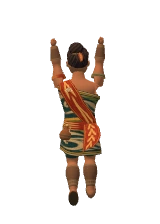
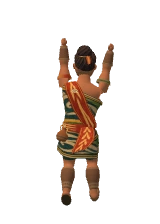
Refine runner and ridgeback gaits and update animation sprites

Changed region(s): [[0.3125, 0.1562, 0.7188, 0.9375]]

diff --git a/runner.js b/runner.js
@@ -1,7 +1,7 @@
 import * as T from './vendor/three.module.min.js';
 import {paintedMaterial} from './character-material.js';
 import {createNavigatorHead} from './navigator.js';
-import {ease,impactPose} from './motion.js';
+import {ease,impactPose,footPath,runStride,walkStride,stridePhase} from './motion.js';
 
 // The character faces -Z. Profiles describe elliptical cross-sections in metres.
 export function createRunner(scene) {
@@ -302,13 +302,14 @@ export function createRunner(scene) {
     spine.add(shoulders);spine.updateWorldMatrix(true,true);
     shoulders.bind(new T.Skeleton([spine,...limbs.map(l=>l.arm.anchor)]));
     shoulders.castShadow=true;shoulders.frustumCulled=false;
+    const inversePelvis=new T.Quaternion(),ankleTarget=new T.Vector3();
     let lastTime=0,airborne=false,impact=0;
     const mix=T.MathUtils.lerp;
     return function pose(state,distance,p,t,menu,stumble=0,bite=null,hold=0,intro=0){
         const dt=Math.min(.08,Math.max(0,t-lastTime));lastTime=t;
         const opening=state==='intro';
         const glance=opening ? Math.sin(Math.PI*T.MathUtils.smoothstep(intro,3.4,6.1)) : 0;
-        const walking=opening && intro<2.8;
+        const walking=opening && intro<4.62;
         const falling=p.drop, pivot=p.pivot;
         const collision=p.impact && impactPose(p.impact.kind,p.impact.phase);
         const drop=falling?ease(falling.phase/.52):0;
@@ -316,8 +317,11 @@ export function createRunner(scene) {
         if(running && !p.y && airborne)impact=1;
         if(!running)impact=0;
         airborne=p.y>0;impact*=Math.exp(-11*dt);
-        const cycle=running?distance/(walking?1.65:4.25):0,angle=cycle*2*Math.PI;
-        const c=p.crouch, travel=running?(1-c)*(1-air)*(1-drop)*(1-(collision?.weight||0))*(walking?.72:1):0;
+        const stride=walking?walkStride:runStride, stance=walking?.54:.177;
+        const cycle=running?stridePhase(distance,stride):0,angle=cycle*2*Math.PI;
+        const support=Math.cos(angle-stance*Math.PI);
+        const drive=opening && !walking?ease((intro-5.17)/1.15):1;
+        const c=p.crouch, travel=running?drive*(1-c)*(1-air)*(1-drop)*(1-(collision?.weight||0))*(1-Math.max(p.fallen,p.kneeling)):0;
         const {fallen, kneeling} = p;
         const lean=T.MathUtils.clamp((p.laneVelocity||0)*.12,-1.55,1.55), breath=Math.sin(t*2.2)*.008;
         root.position.set(p.x,p.y,stumble*.48);root.rotation.z=-lean*.105-stumble*.61;
@@ -326,21 +330,25 @@ export function createRunner(scene) {
             root.rotation.y+=pivot.yaw;
             root.rotation.z-=pivot.lean*.26;
         }
-        const hipY=mix(.845-.032*Math.cos(angle*2-1.05)*travel-.086*impact,.335,c);
-        hips.position.set(.021*Math.sin(angle)*travel,hipY,0);
+        const load=Math.cos(2*(angle-Math.PI*stance));
+        const height=walking?.815+.016*load:.815-.040*load;
+        const hipY=mix(.845+(height-.845)*travel-.086*impact,.335,c);
+        hips.position.set(-.021*support*travel,hipY,0);
         // Pivot at the pelvis so the shoulder lands beside the hip. The trailing
         // leg folds under the body as the hands push it back onto one knee.
         hips.position.y = mix(hipY, .255, fallen);
         hips.position.y = mix(hips.position.y, .44, kneeling);
         hips.rotation.x = -.24*fallen - .16*kneeling;
-        hips.rotation.y=.1*Math.sin(angle)*travel;
-        spine.rotation.set(-.08-.12*travel-.93*c-.12*air+breath,-.23*Math.sin(angle)*travel,.032*Math.sin(angle)*travel);
-        hips.rotation.z=.038*Math.cos(angle-.55)*travel + 1.48*fallen + .13*kneeling;
+        hips.rotation.y=-.112*Math.cos(angle-.2)*travel;
+        spine.rotation.set(-.08+((walking?-.02:-.15)+.028*load)*travel-.93*c-.12*air+breath,
+            .235*Math.cos(angle-.36)*travel,-.055*support*travel);
+        hips.rotation.z=-.050*support*travel + 1.48*fallen + .13*kneeling;
         spine.rotation.y-=.45*glance+.26*fallen;
         spine.rotation.x-=.16*fallen+.50*kneeling;
         spine.rotation.x+=walking ? .12 : 0;
         neck.rotation.x=-spine.rotation.x*.73;
-        neck.rotation.y=-.55*spine.rotation.y-lean*.12-1.34*glance;
+        neck.rotation.y=-.78*(hips.rotation.y+spine.rotation.y)-lean*.12-1.34*glance;
+        neck.rotation.z=-(hips.rotation.z+spine.rotation.z)*.78*travel;
         if(pivot){
             hips.position.y-=.13*pivot.plant;
             spine.rotation.y-=pivot.lean*.32;
@@ -364,37 +372,43 @@ export function createRunner(scene) {
         wrap.rotation.z=.032*Math.sin(angle)*travel;
         knot.rotation.x=.08*Math.sin(angle*2)*travel;
         tails.rotation.x=-.16-.58*travel-.18*air-.12*Math.sin(angle)*travel;
-        tails.rotation.z=.13*Math.sin(angle*.5)*travel+(pivot?.lean||0)*.35;
+        tails.rotation.z=.13*Math.sin(angle-.7)*travel+(pivot?.lean||0)*.35;
         flask.rotation.x=-.06+.13*Math.sin(angle-.6)*travel+.14*air;
         tie.rotation.x=-.22-.35*travel+.12*Math.sin(angle)*travel;
+        inversePelvis.copy(hips.quaternion).invert();
         for(const {s,leg,foot,arm,wrist} of limbs){
-            const phase=(cycle+(s>0?.5:0))%1;
-            // During stance the ankle travels backward with the paving. The
-            // recovery arc lifts the heel and brings the foot forward again.
-            const stance=walking?.52:.19, swing=Math.max(0,(phase-stance)/(1-stance));
-            const strideLength=walking?1.65:4.25;
-            const stride=.5*strideLength*stance;
-            const z=phase<stance? -stride+strideLength*phase : stride*Math.cos(swing*Math.PI);
-            const lift=(walking?.09:.29)*Math.sin(swing*Math.PI)**1.5;
-            let targetZ=mix(s*.055,z,travel);
-            let targetY=.066+lift*travel;
+            const phase=stridePhase(cycle,1,s>0?.5:0);
+            const step=footPath(phase,stride,stance,walking?.11:.395);
+            const contact=Math.min(1,phase/stance);
+            const roll=phase<stance
+                ? .18*(1-ease(contact/.43))-(walking?.43:.70)*ease((contact-.47)/.53)
+                : mix(walking?-.43:-.70,.18,ease((step.swing-.12)/.66));
+            const pitch=roll*travel;
+            const cos=Math.cos(pitch),sin=Math.sin(pitch);
+            const sole=.041*cos-.058*sin+Math.hypot(.022*cos,.128*sin);
+            let targetZ=mix(s*.055,step.z,travel);
+            let targetY=sole+.003+step.y*travel;
             targetZ=mix(targetZ,s*.29,air);targetY+=air*(s>0?.31:.18);
             targetZ=mix(targetZ,s>0?-.69:.27,c);
-            const down=hipY-targetY;
+            // Undo the pelvis sway and twist before solving for the ankle.
+            // The sandal can stay on its mark while the torso passes over it.
+            ankleTarget.set(leg.anchor.position.x,targetY,targetZ).sub(hips.position)
+                .applyQuaternion(inversePelvis).sub(leg.anchor.position);
+            const down=mix(hipY-targetY,Math.hypot(ankleTarget.x,ankleTarget.y),travel);
+            targetZ=mix(targetZ,ankleTarget.z,travel);
             const reach=T.MathUtils.clamp(Math.hypot(down,targetZ),.035,thigh+calf-.0001);
             const knee=Math.acos(T.MathUtils.clamp((reach*reach-thigh*thigh-calf*calf)/(2*thigh*calf),-1,1));
             const upper=Math.atan2(-targetZ,down)+Math.atan2(calf*Math.sin(knee),thigh+calf*Math.cos(knee));
-            leg.anchor.rotation.set(upper,0,s*.095*c);
+            const lateral=Math.atan2(ankleTarget.x,-ankleTarget.y);
+            leg.anchor.rotation.set(upper,0,lateral*travel+s*.095*c,'ZXY');
             leg.bend.rotation.x=-knee;
-            // The heel touches first, then lifts as the weight rolls onto the toes.
-            const footPitch=phase<stance
-                ? mix(.16,-.38,T.MathUtils.smoothstep(phase,0,stance))
-                : mix(-.38,.16,T.MathUtils.smoothstep(swing,0,.72));
-            foot.rotation.x=knee-upper+footPitch*travel;
-            const counter=Math.cos(phase*2*Math.PI)*travel;
-            arm.anchor.rotation.set(-.28-.82*counter+s*.46*air-.23*c,0,s*(.12+.27*c+.13*air));
-            arm.bend.rotation.x=.62+.66*travel-.25*counter+.32*air;
-            wrist.rotation.x=.14*Math.sin(phase*2*Math.PI-.55)*travel;
+            foot.rotation.x=knee-upper+pitch;
+            foot.rotation.z=-(hips.rotation.z+leg.anchor.rotation.z)*travel;
+            const counter=Math.cos(phase*2*Math.PI-.34)*travel;
+            arm.anchor.rotation.set(-.28-(walking?.50:.87)*counter+s*.46*air-.23*c,
+                -s*.12*counter,s*(.12+.27*c+.13*air));
+            arm.bend.rotation.x=.62+(walking?.18:.68)*travel-.31*counter+.32*air;
+            wrist.rotation.x=.15*Math.sin(phase*2*Math.PI-.70)*travel;
             // Tuck the lower arm at impact; plant the near foot and unfold the
             // other leg from the ground before blending back into the run.
             leg.anchor.rotation.x = mix(leg.anchor.rotation.x, s>0 ? .60 : .15, fallen);

diff --git a/pursuer.js b/pursuer.js
@@ -1,4 +1,5 @@
 import * as T from './vendor/three.module.min.js';
+import {ease,footPath,gallopStride,stridePhase} from './motion.js';
 import {paintedMaterial} from './character-material.js';
 
 // An obsidian ridgeback with a heavy forequarter and a springing hind gait.
@@ -131,7 +132,11 @@ export function createPursuer(scene) {
             form(paw,hull,plate,x,-.060,z,.037,.029,.051);
             hook(paw,ivory,[x,-.058,z-.030],[x,-.068,z-.066],[x,-.080,z-.077],.013);
         }
-        legs.push({hip,ankle,paw,s,rear});
+        legs.push({hip,ankle,paw,rear,
+            offset:(rear?0:.43)+(s>0?.084:0),
+            thigh:Math.hypot(kneeY,kneeZ),shin:Math.hypot(length,offset),
+            upperRest:Math.atan2(-kneeZ,kneeY),lowerRest:Math.atan2(-offset,length)});
+
     }
     // Teeth, claws and scales move with their parent joint. Batch these
     // rigid pieces once so detail doesn't add a draw call for every scale.
@@ -161,6 +166,7 @@ export function createPursuer(scene) {
             const batch=new T.Mesh(g,mat);batch.castShadow=true;joint.add(batch);
         }
     });
+    const pawTarget=new T.Vector3(),inverseBody=new T.Quaternion();
     return function animate(state,player,t,chase) {
         root.visible=state!=='start' && (state==='intro' || chase.lead<14);
         if(!root.visible)return;
@@ -170,20 +176,28 @@ export function createPursuer(scene) {
         root.position.set(chase.x,0,gap+chase.stumble*.48+hoist*.58);
         root.rotation.y=Math.atan2(chase.x-player.x,gap)*.81;
         const opening=state==='intro', awake=opening?chase.wake:1;
-        const run=opening ? T.MathUtils.smoothstep(chase.intro,5.65,6.25) : Number(chase.lead>0);
+        const capture=state==='catching'||(state==='over' && chase.hold>0);
+        const settling=capture?1-ease(chase.hold/.31):0;
+        const run=opening?T.MathUtils.smoothstep(chase.intro,5.65,6.25):capture?settling:Number(chase.lead>0);
         root.rotation.y=T.MathUtils.lerp(.58,root.rotation.y,awake);
         body.scale.y=.84+.16*awake;
         const blink=1-.91*Math.max(0,Math.cos(t*1.7+.8))**100;
         for(const eye of eyes)eye.scale.y=Math.max(.012,awake*blink);
         ears.forEach((ear,i)=>{ear.rotation.x=-.64*(1-awake)+.13*Math.sin(t*2.4+i)*awake;});
-        const phase=chase.stride*2.28;
-        const lunge=state==='catching'?Math.sin(Math.PI*Math.max(0,1-chase.lead/.85)):0;
-        const pinned=state==='over'||chase.lead===0;
-        body.position.y=-.19*(1-awake)+run*.081*Math.abs(Math.sin(phase))+.013*Math.sin(t*3)+lunge*.19;
-        body.rotation.x=.09*Math.sin(phase)*run+lunge*.24-(pinned?.19:0)+hoist*.36;
-        head.rotation.x=.1*Math.cos(phase+.5)*run-.07-(pinned?.24:0)+hoist*.63;
-        head.rotation.z=hoist*(.13+.075*Math.sin(t*6));
-        jaw.rotation.x=-(.14+.075*Math.sin(phase)+lunge*.51)*(1-grip)-.055*grip;
+        // Let the last bound carry into the brace as the jaws take hold.
+        const brake=capture?Math.min(chase.hold,.31)/.31:0;
+        const distance=chase.stride+1.12*(2*brake-brake*brake);
+        const phase=stridePhase(distance,gallopStride)*Math.PI*2;
+        const reach=capture?Math.sin(Math.PI*ease(chase.hold/.39)):0;
+        const bound=Math.cos(phase-.76), gather=Math.cos(phase-2.60);
+        body.position.y=-.19*(1-awake)+run*(-.090-.049*Math.cos(2*phase-1.3))
+            +.007*Math.sin(t*3)*(1-run)+reach*.065;
+        body.rotation.x=run*.115*bound+reach*.17-.15*grip+hoist*.34;
+        body.rotation.z=run*.023*Math.sin(phase-.45);
+        head.position.z=-.49-.042*gather*run-.11*reach;
+        head.rotation.x=-.070-body.rotation.x*.77+.038*gather*run-.17*grip+hoist*.67;
+        head.rotation.z=-body.rotation.z*.8+hoist*(.13+.075*Math.sin(t*6));
+        jaw.rotation.x=-(.14+.04*gather*run+reach*.59)*(1-grip)-.055*grip;
         if(opening){
             head.rotation.x+=.66*(1-awake)-.24*awake*(1-run);
             jaw.rotation.x*=awake;
@@ -191,12 +205,30 @@ export function createPursuer(scene) {
             jaw.rotation.x-=.57*snap;
             head.rotation.x-=.14*snap;
         }
-        tailBase.rotation.y=.74*(1-awake)+awake*.34*Math.sin(t*4.1);tip.rotation.y=.60*(1-awake)+awake*.37*Math.sin(t*4.1-.8);
-        for(const {hip,ankle,paw,s,rear} of legs){
-            const swing=Math.sin(phase+(rear?2.9:0)+s*.51);
-            hip.rotation.x=swing*.72*run+(rear?-.72:.68)*(1-awake);
-            ankle.rotation.x=-.19-Math.max(0,swing)*.78*run;
-            paw.rotation.x=-(hip.rotation.x+ankle.rotation.x)*(.66+.18*Math.cos(phase));
+        const idleTail=Math.sin(t*2.1);
+        tailBase.rotation.y=.74*(1-awake)+awake*(.13*idleTail+.14*run*Math.sin(phase-.9));
+        tip.rotation.y=.60*(1-awake)+awake*(.15*Math.sin(t*2.1-.8)+.20*run*Math.sin(phase-1.65));
+        tailBase.rotation.x=run*(-.13+.13*Math.cos(phase-.8));
+        tip.rotation.x=run*.22*Math.cos(phase-1.53);
+        inverseBody.copy(body.quaternion).invert();
+        for(const {hip,ankle,paw,rear,offset,thigh,shin,upperRest,lowerRest} of legs){
+            const beat=stridePhase(distance,gallopStride,-offset);
+            const stance=rear?.157:.163,step=footPath(beat,gallopStride,stance,rear?.24:.20);
+            const push=beat<stance?ease((beat/stance-.40)/.60):1-ease(step.swing/.55);
+            const pitch=-(rear?.56:.40)*push;
+            const pawHeight=.092+.17*Math.max(0,-Math.sin(pitch));
+            pawTarget.set(hip.position.x,pawHeight+step.y,hip.position.z+step.z)
+                .sub(body.position).applyQuaternion(inverseBody).sub(hip.position);
+            const down=-pawTarget.y,z=pawTarget.z;
+            const length=T.MathUtils.clamp(Math.hypot(down,z),Math.abs(thigh-shin)+.0001,thigh+shin-.0001);
+            const bend=(rear?-1:1)*Math.acos(T.MathUtils.clamp(
+                (length*length-thigh*thigh-shin*shin)/(2*thigh*shin),-1,1));
+            const upper=Math.atan2(-z,down)-Math.atan2(shin*Math.sin(bend),thigh+shin*Math.cos(bend));
+            const hipAngle=upper-upperRest,kneeAngle=bend+upperRest-lowerRest;
+            hip.rotation.x=T.MathUtils.lerp((rear?-.72:.68)*(1-awake),hipAngle,run);
+            ankle.rotation.x=T.MathUtils.lerp(-.19,kneeAngle,run);
+            paw.rotation.x=T.MathUtils.lerp(-.7*(hip.rotation.x+ankle.rotation.x),
+                pitch-hipAngle-kneeAngle-body.rotation.x,run);
         }
         return grip>0 ? bite.getWorldPosition(bitePosition) : null;
     };

diff --git a/scene.js b/scene.js
@@ -1,7 +1,7 @@
 import {seaLevel,surfaceHeight,forEachSplashDrop} from './water.js';
 import {courses,routePoint,cableHeight,openSpan,viewPoint} from './courses.js';
 import {renderPixelRatio} from './viewport.js?v=35';
-import {ease} from './motion.js';
+import {ease,stridePhase,runStride,walkStride,gallopStride} from './motion.js';
 import {caveFaces,tripStoneAt} from './cave.js';
 // World units are metres. The camera looks along +z, with the runner at z = 8.
 export function createScene(canvas, laneWidth) {
@@ -318,15 +318,19 @@ export function createScene(canvas, laneWidth) {
         }
         if(clipped.length>=3)polygon('#'+face.color.toString(16),clipped.map(p=>project(...p)));
     }
-    function beast(x,z,distance,wake){
+    function beast(x,z,distance,wake,intro){
         if(!ridgeback.naturalWidth)return;
         const [px,py]=project(x,0,z),scale=focal/z;
-        const phase=wake==null ? Math.floor(distance*2.28/(Math.PI*2)*8)%8 : Math.round(wake*7);
+        // The first three rows hold 24 gallop poses. The final rows show the
+        // wake-up and the first accelerating bound at the cave entrance.
+        let frame=Math.floor(24*stridePhase(distance,gallopStride));
+        if(intro!=null && intro<5.65)frame=24+Math.round(wake*7);
+        else if(intro!=null && intro<6.25)frame=32+Math.round((intro-5.65)/.60*7);
         ellipse('#3e40474d',px,py,scale*.52,scale*.18);
-        ctx.drawImage(ridgeback,phase*240,wake==null?0:224,240,224,px-scale*1.50,py-scale*1.85,
+        ctx.drawImage(ridgeback,frame%8*240,Math.floor(frame/8)*224,240,224,px-scale*1.50,py-scale*1.85,
             scale*3.00,scale*2.80);
     }
-    function runner(player,distance,active,stumble,z,hasGround) {
+    function runner(player,distance,active,stumble,z,hasGround,intro) {
         const scale=focal/z, x=center+player.x*scale,ground=horizon+2.9*scale;
         if(hasGround)ellipse('#3e40474d',x,ground,scale*.37,scale*.10);
         const grip=rider.naturalWidth?(player.grip||0):0;
@@ -337,16 +341,18 @@ export function createScene(canvas, laneWidth) {
             if(grip>.999)return;
         }
         if(!athlete.naturalWidth)return;
-        const phase=Math.floor(distance/4.25*8)%8;
-        let frame=phase,row=0;
-        if(!active){row=2;frame=7;}
-        else if(player.kneeling>.05){row=1;frame=Math.round(player.kneeling*7);}
-        else if(player.fallen>.05){row=0;frame=2;}
-        else if(player.crouch>.08){row=1;frame=Math.round(player.crouch*7);}
-        else if(player.y>.08){row=2;frame=Math.min(6,phase);}
+        const walking=intro!=null && intro<2.8;
+        const cycle=stridePhase(distance,walking?walkStride:runStride);
+        const gait=Math.floor(24*cycle);
+        let frame=gait%8,row=Math.floor(gait/8)+(walking?3:0);
+        if(!active){row=7;frame=7;}
+        else if(player.crouch>.08){row=6;frame=Math.round(player.crouch*7);}
+        else if(player.y>.08){row=7;frame=Math.min(6,Math.floor(cycle*8));}
         let actionRow=0,u=0,weight=0,mirror=1;
         if(actions.naturalWidth){
-            if(player.drop){
+            if(intro!=null && intro>=2.8 && intro<6.25){
+                actionRow=6;u=(intro-2.8)/3.45;weight=1;
+            }else if(player.drop){
                 actionRow=player.drop.kind==='corner'?5:player.drop.kind==='zipline'?4:3;
                 u=player.drop.phase;weight=ease(u/.12);mirror=player.drop.direction;
             }else if(player.impact){
@@ -361,8 +367,8 @@ export function createScene(canvas, laneWidth) {
             const wx=origin.x+Math.cos(origin.heading)*player.x,wz=origin.z+Math.sin(origin.heading)*player.x;
             ctx.beginPath();ctx.rect(0,0,w,ground-surfaceHeight(wx,wz,waterTime)*scale);ctx.clip();
         }
-        ctx.translate(x,ground-(player.y+.26*player.fallen)*scale);
-        ctx.rotate((player.laneVelocity||0)*.012+stumble*.61+player.fallen*1.48+player.kneeling*.14);
+        ctx.translate(x,ground-player.y*scale);
+        ctx.rotate((player.laneVelocity||0)*.012+stumble*.61);
         if(weight<1){
             ctx.globalAlpha=(1-weight)*(1-grip);
             ctx.drawImage(athlete,frame*160,row*224,160,224,-.75*scale,-1.92*scale,1.5*scale,2.1*scale);
@@ -370,7 +376,9 @@ export function createScene(canvas, laneWidth) {
         if(weight>0){
             ctx.scale(mirror,1);
             ctx.globalAlpha=weight*(1-grip);
-            ctx.drawImage(actions,Math.round(u*19)*176,actionRow*154,176,154,
+            // The longer cave sequence spans three 20-frame rows.
+            const sample=Math.round(u*(actionRow===6?59:19));
+            ctx.drawImage(actions,sample%20*176,(actionRow+Math.floor(sample/20))*154,176,154,
                 -1.76*scale,-2.43*scale,3.52*scale,3.08*scale);
         }
         ctx.restore();
@@ -479,11 +487,11 @@ export function createScene(canvas, laneWidth) {
             items.push({z:7,draw:()=>grab(player.x,7,chase.hold)});
         }else{
             const z=8+pullback-chase.stumble*.48;
-            items.push({z,draw:()=>runner(player,strideDistance,state!=='start',chase.stumble,z,!openSpan(course,distance) && !chase.failure)});
+            items.push({z,draw:()=>runner(player,strideDistance,state!=='start',chase.stumble,z,!openSpan(course,distance) && !chase.failure,opening?chase.intro:null)});
         }
         if(state!=='start' && !gripped){
             const z=8+pullback-(.8+chase.lead+chase.stumble*.48);
-            if(z>1.5 && !chase.failure && !openSpan(course,distance+z-runnerDepth))items.push({z,draw:()=>beast(chase.x,z,chase.stride,opening && chase.intro<5.65 ? chase.wake : null)});
+            if(z>1.5 && !chase.failure && !openSpan(course,distance+z-runnerDepth))items.push({z,draw:()=>beast(chase.x,z,chase.stride,chase.wake,opening?chase.intro:null)});
         }
         items.sort((a,b)=>b.z-a.z).forEach(item=>item.draw());
         const shade=ctx.createLinearGradient(0,0,portrait?0:w,portrait?h:0);

diff --git a/motion.js b/motion.js
@@ -4,6 +4,24 @@ export function ease(value){
     const t=Math.max(0,Math.min(1,value));
     return t*t*(3-2*t);
 }
+// Distance per full gait cycle, shared with the prerendered animation.
+export const runStride=4.25, walkStride=1.52, gallopStride=3.95;
+export function stridePhase(distance,length,offset=0){
+    const cycle=distance/length+offset;
+    return cycle-Math.floor(cycle);
+}
+
+// While planted, the foot moves backward at exactly the speed of the trail.
+// The swing retains that velocity at both ends and folds early after toe-off.
+export function footPath(phase,length,stance,clearance){
+    const span=length*stance;
+    if(phase<stance)return {z:length*phase-span/2,y:0,swing:0};
+    const u=(phase-stance)/(1-stance),mid=u*(1-u);
+    const carry=length*(1-stance)*mid*(1-2*u)*Math.exp(-15*mid);
+    const arc=Math.sin(Math.PI*u);
+    return {z:span*(.5-ease(u))+carry,y:clearance*arc**1.6*(1.42-.84*u),swing:u};
+}
+
 export function cornerMotion(turn,metres,delay=0){
     if(!turn)return null;
     const travel=metres-turn[0], d=travel-delay, direction=turn[1];
